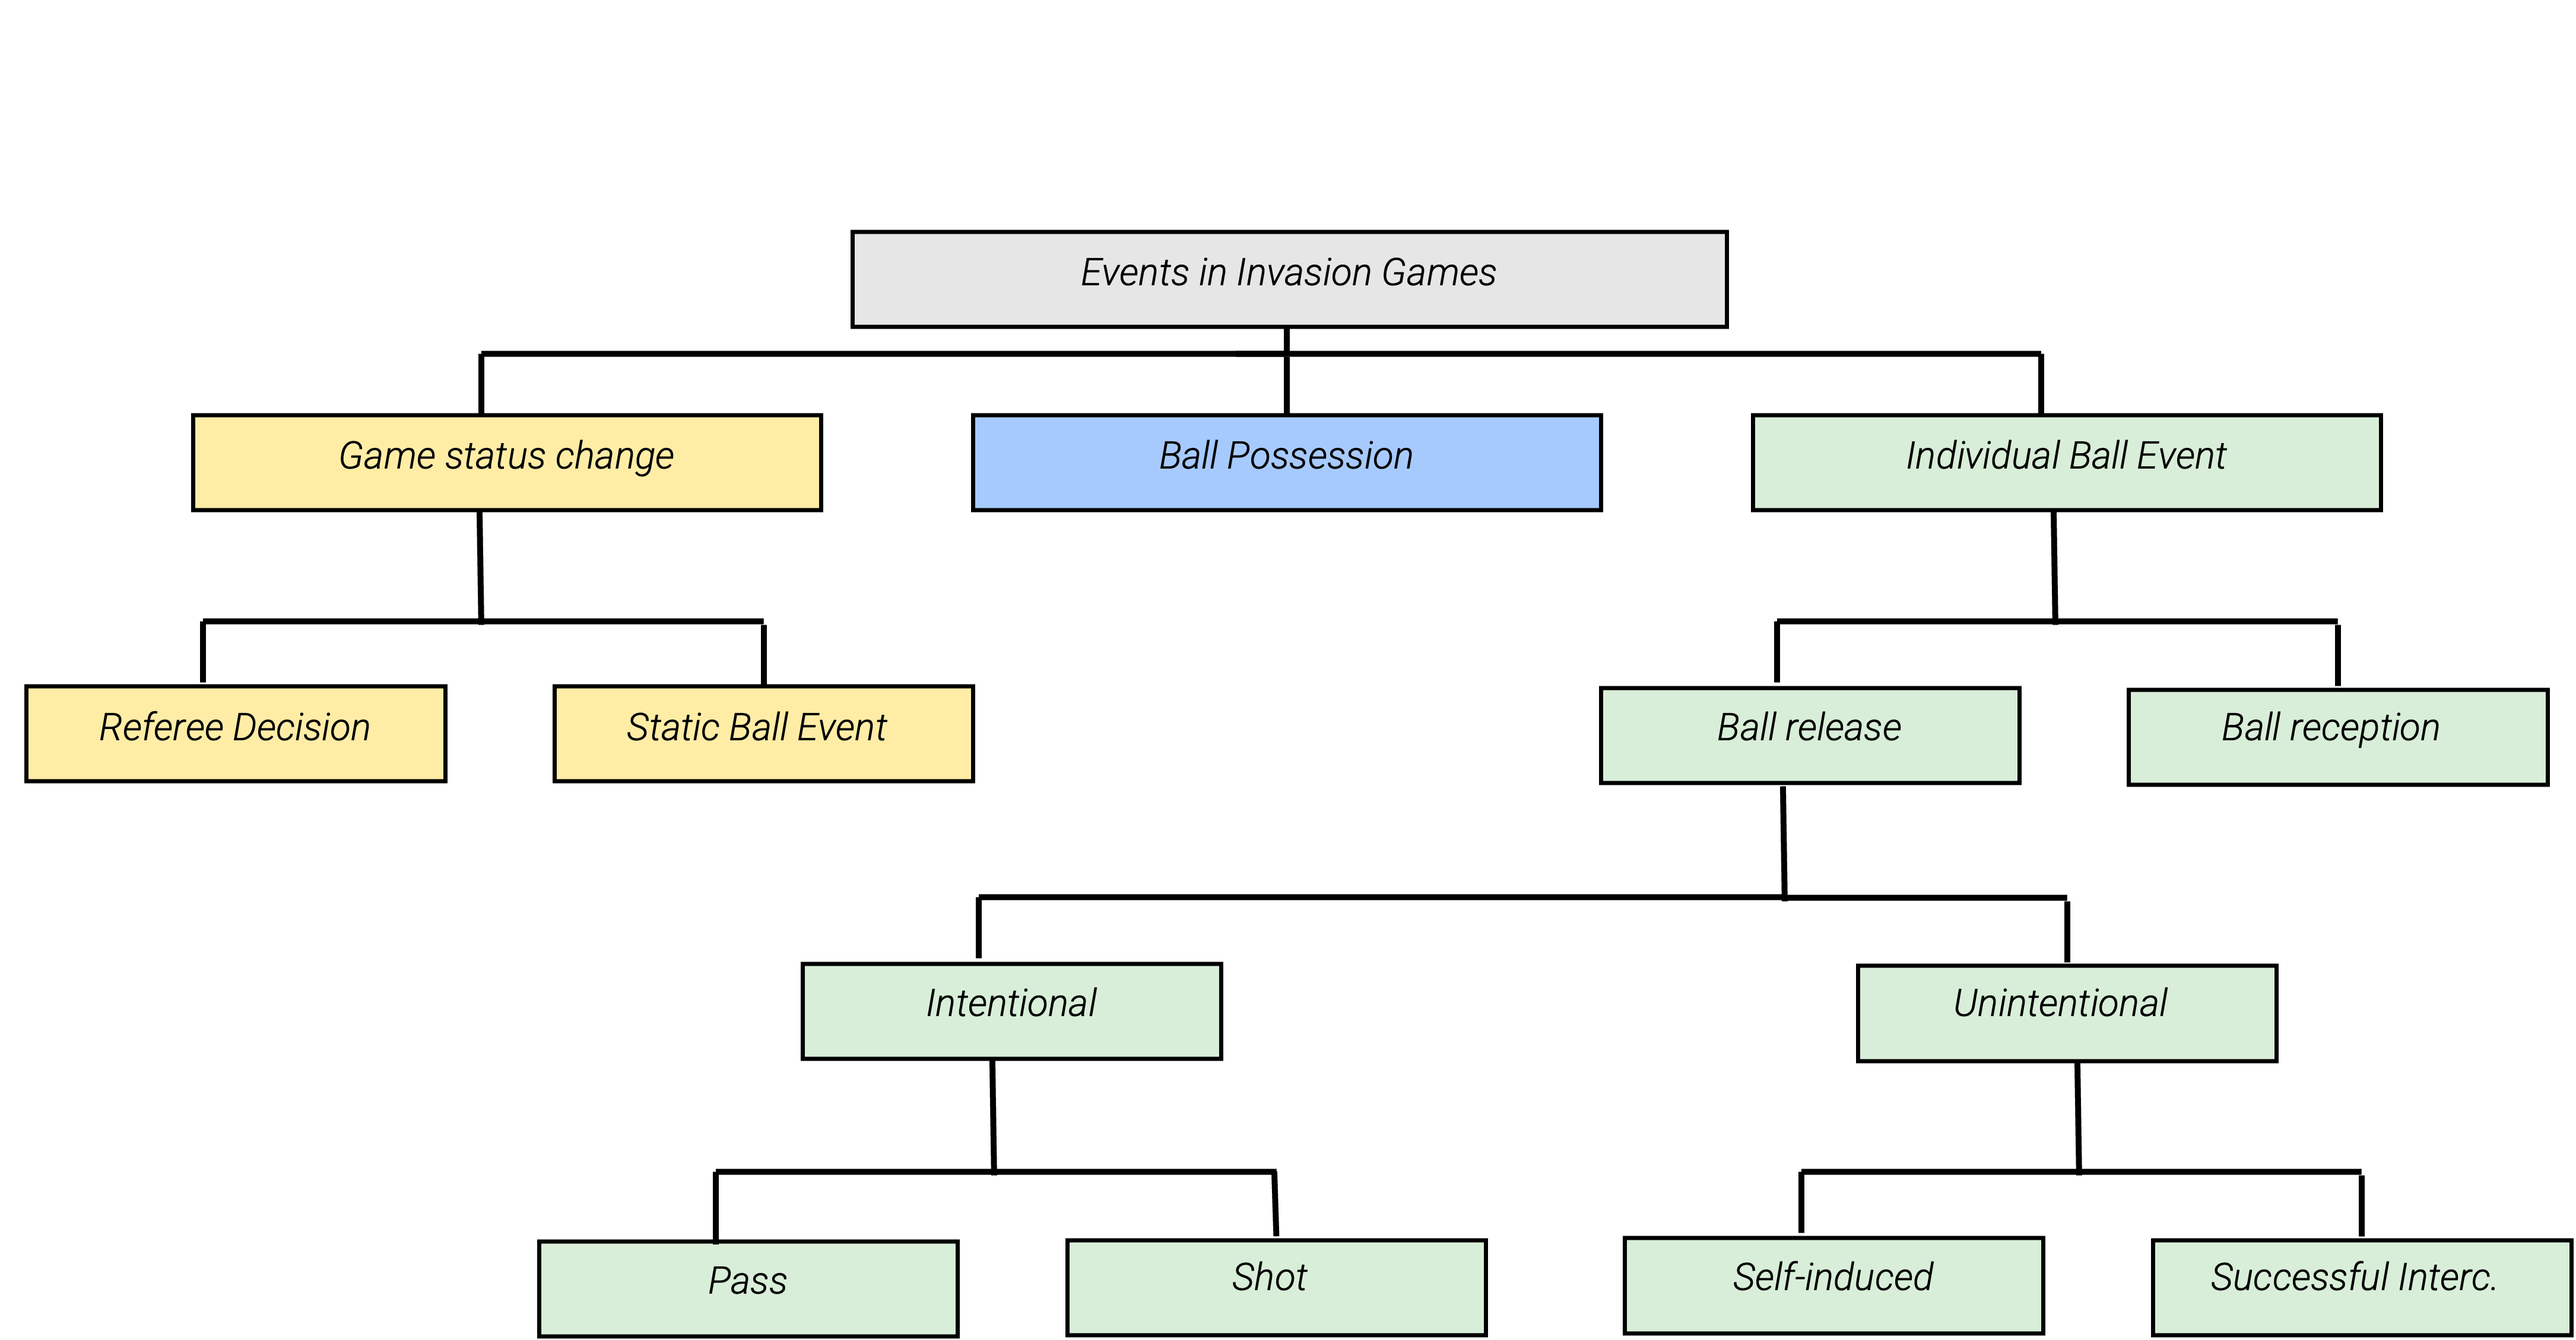
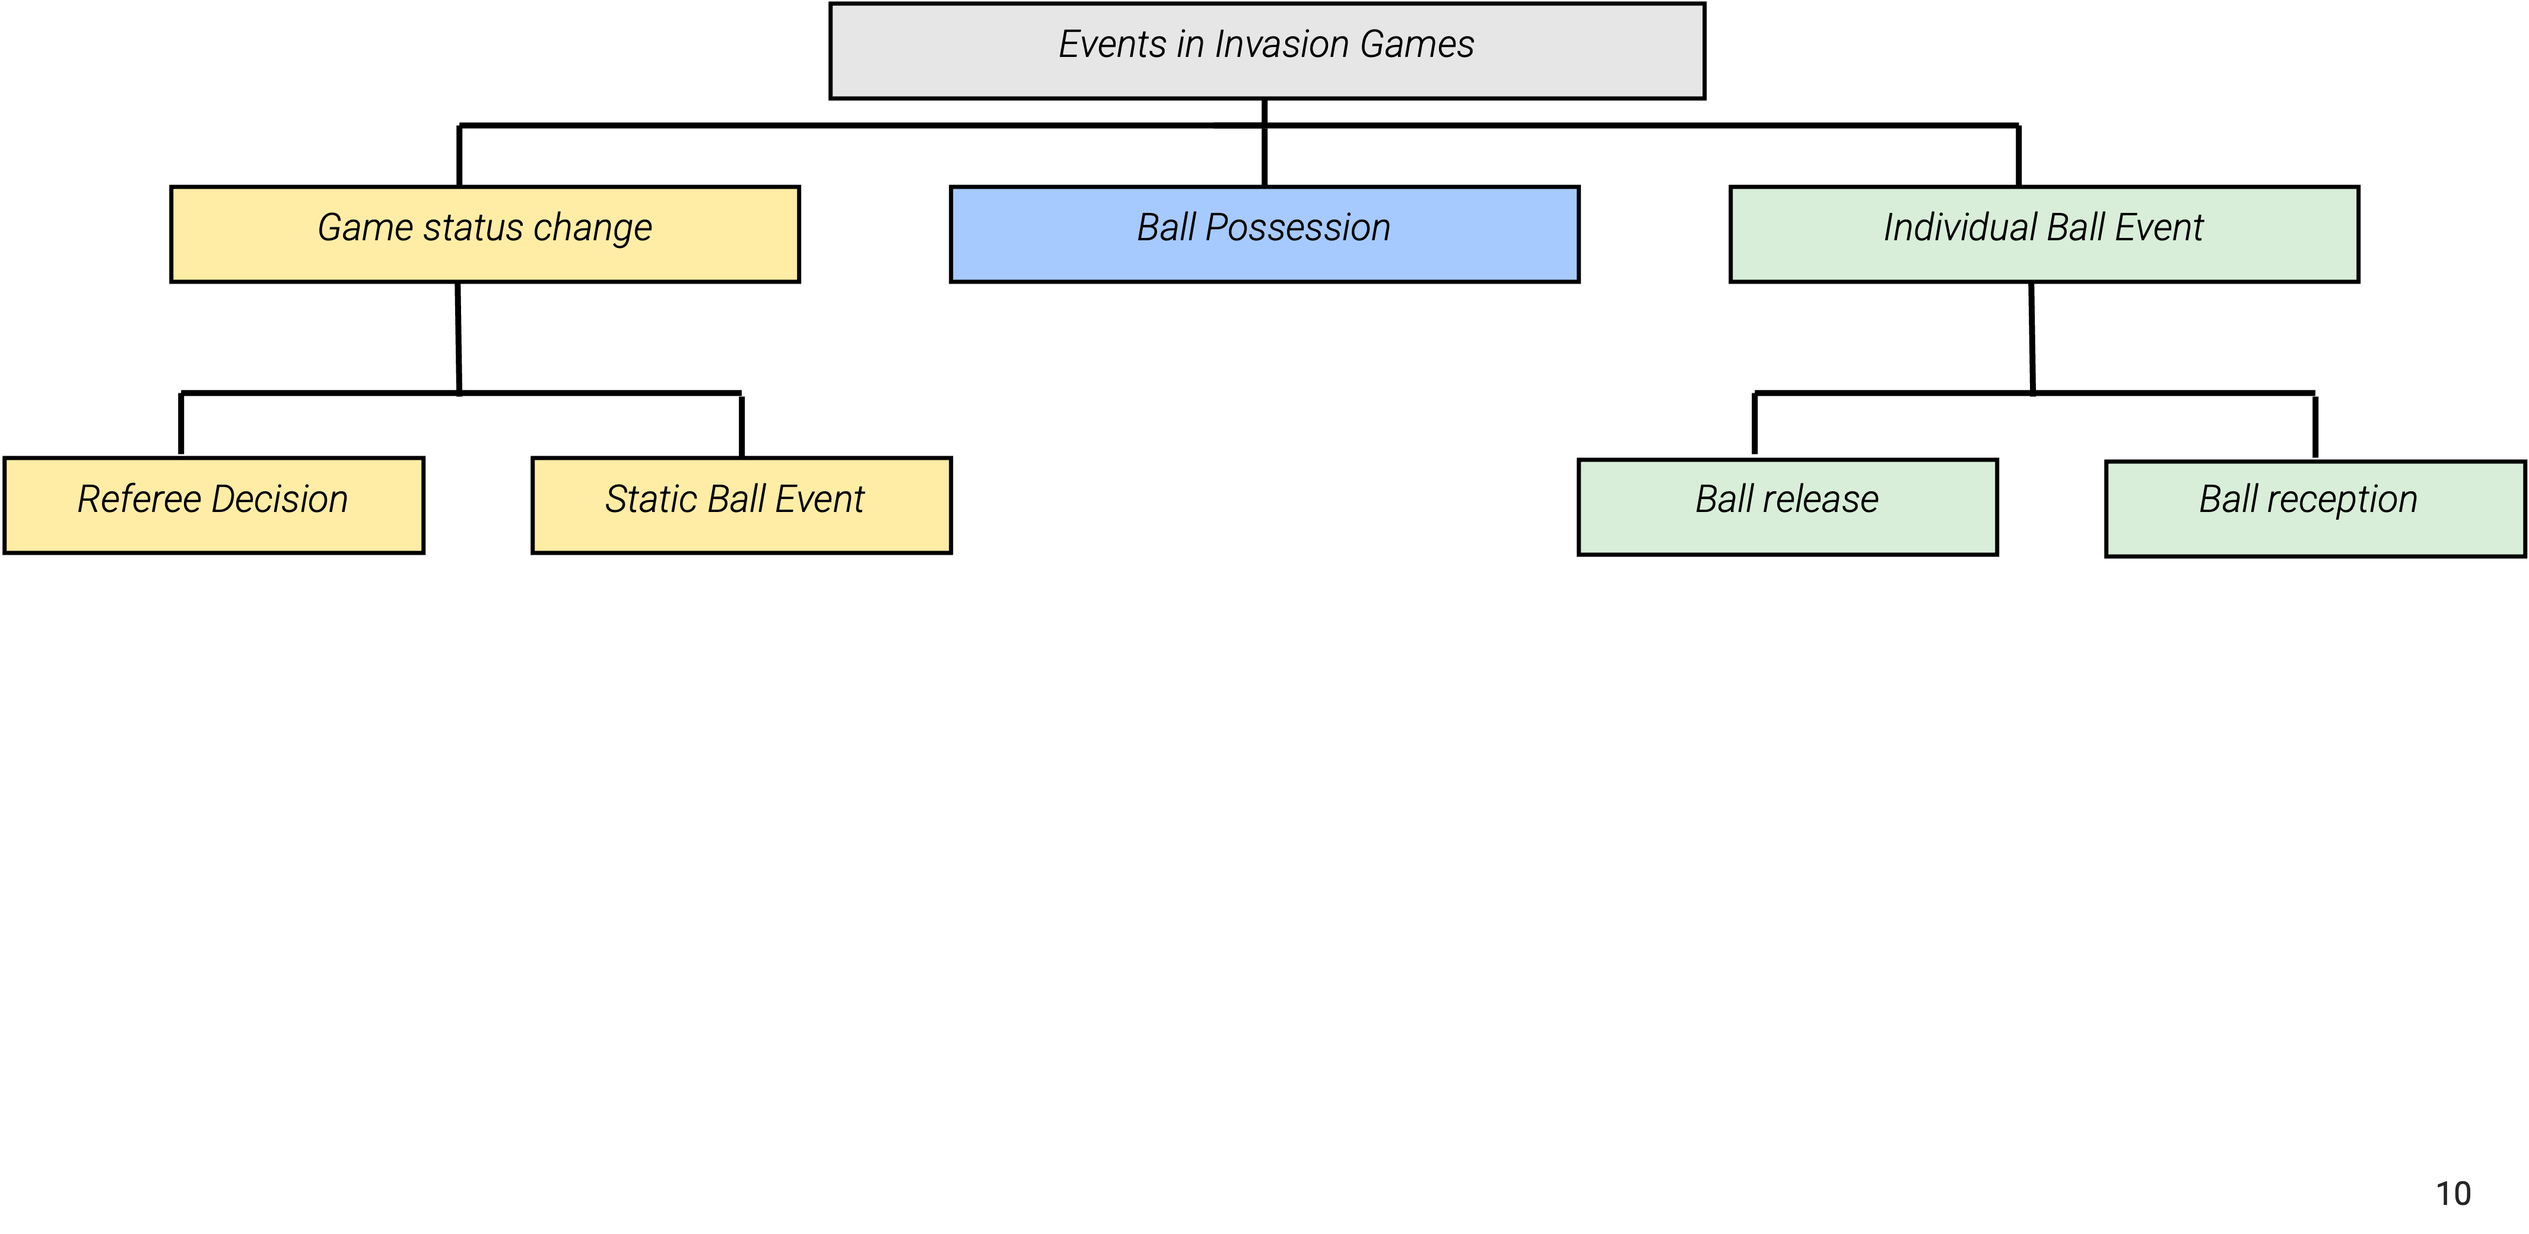
adjustments

diff --git a/_posts/2021-09-22-taxonomie.md b/_posts/2021-09-22-taxonomie.md
@@ -23,9 +23,13 @@ In the creation process we consider the following attributes:
 2. We want to enable a minimal annotation without redundancies.
 3. Although minimal, we want to enable annotations that are still exact and objective.
 4. The approach should be easily refined and expanded
-![taxonomie](../assets/img/taxonomy_basic.png){: .mx-auto.d-block :}
 
-In addition to the taxonomy, which can be seen above, a dataset was released. On this dataset a detailed evaluation on the human annotators performance and an exemplary baseline for event recognition from video data was executed. The results, which can be viewed in detail in the paper, suggest that the base taxonomy does generally not require expert knowledge. This observation shows the low amount of semantic interpretation included in our proposed taxonomy.
+The following basic structure provides a hierarchical, minimal, and objective description of Invasion Games.
+![taxonomie-basic-structure](../assets/img/taxonomy_basic.png){: .mx-auto.d-block :}
+This basic structure can be further refined to include intention, success or other sport-specific concepts.
+![taxonomie-basic-structure](../assets/img/taxonomy_basic2.png){: .mx-auto.d-block :}
+
+In addition to the taxonomy a dataset was released. On this dataset a detailed evaluation on the human annotators performance and an exemplary baseline for event recognition from video data was executed. The results, which can be viewed in detail in the paper, suggest that the base taxonomy does generally not require expert knowledge. This observation shows the low amount of semantic interpretation included in our proposed taxonomy.
 
 <!--- In summary, we observe a lack of a common consensus for the majority of events in the sport. Neither precise definitions of individual events nor the temporal annotation or evaluation process are consistent. Publicly available datasets are uni-modal, focus on soccer, and often consider only a small subset of events that does not reflect the entire match. These inconsistencies make it for all aforementioned three perspectives difficult to assess the performance of automatic systems and to identify state-of-the-art approaches for the real-world task of fine-grained and ball-centered event spotting from multimodal data sources.
 
